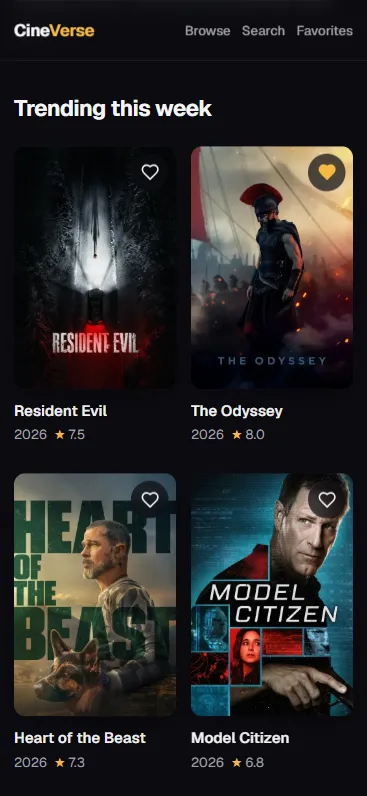
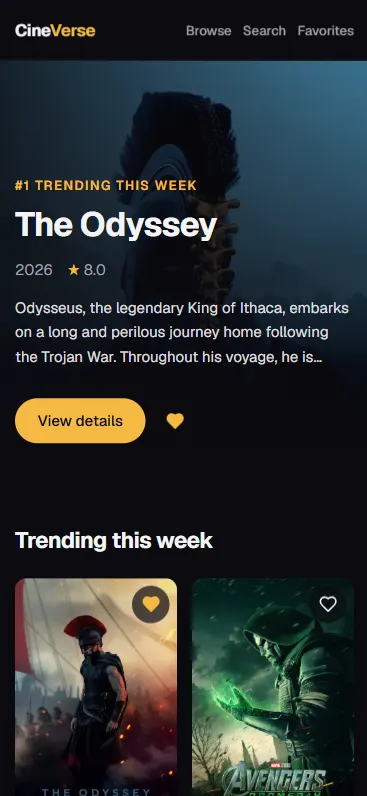
docs: refresh screenshots and add browse view

diff --git a/README.md b/README.md
@@ -6,10 +6,25 @@ A movie discovery app built with Next.js and the [TMDB API](https://www.themovie
 
 ## Screenshots
 
-![Home page with trending and popular movies](docs/screenshots/home.webp)
-![Movie details page](docs/screenshots/details.webp)
-![Favorites page](docs/screenshots/favorites.webp)
-![Mobile layout](docs/screenshots/mobile.webp)
+![Home page with a featured movie hero banner above trending movies](docs/screenshots/home.webp)
+
+*Home: featured hero banner*
+
+![Browse page with Crime and Thriller selected and the filters panel open](docs/screenshots/browse.webp)
+
+*Browse: sort, year range, minimum rating and multi-genre filters*
+
+![Movie details page with trailer preview and cast list](docs/screenshots/details.webp)
+
+*Details: click-to-load trailer, cast and recommendations*
+
+![Favorites page with saved movies](docs/screenshots/favorites.webp)
+
+*Favorites: saved movies, persisted in the browser*
+
+<img src="docs/screenshots/mobile.webp" alt="Home page on a phone with the featured hero banner" width="260">
+
+*Mobile: responsive layout with the hero banner*
 
 ## Tech Stack
 
